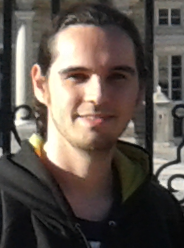
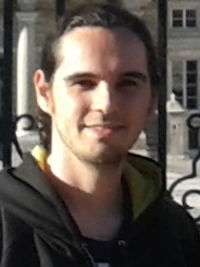
Swapping out jpgs for pngs

diff --git a/_students/abu_reyan_ahmed.md b/_students/abu_reyan_ahmed.md
@@ -1,6 +1,6 @@
 ---
 name: Abu Reyan Ahmed
 role: PhD Student
-photo: headshots/Reyan.jpg
+photo: headshots/Reyan.png
 website: http://cgi.cs.arizona.edu/~abureyanahmed/profile.html
 ---

diff --git a/_students/katy_williams.md b/_students/katy_williams.md
@@ -1,6 +1,6 @@
 ---
 name: Katy Williams
 role: PhD Student
-photo: headshots/kawilliams.jpg
+photo: headshots/kawilliams.png
 website: http://hdc.cs.arizona.edu/people/kawilliams/
 ---

diff --git a/_students/simon_swenson.md b/_students/simon_swenson.md
@@ -1,6 +1,6 @@
 ---
 name: Simon Swenson
 role: PhD Student
-photo: headshots/simon.jpg
+photo: headshots/simon.png
 website: https://www.cs.arizona.edu/person/simon-swenson
 ---

diff --git a/_faculty/stephens_kobourov.md b/_faculty/stephens_kobourov.md
@@ -2,5 +2,5 @@
 name: Stephen Kobourov
 role: Professor
 website: http://www.cs.arizona.edu/~kobourov 
-photo: headshots/skobourov.jpg
+photo: headshots/skobourov.png
 ---

diff --git a/_faculty/kate_isaacs.md b/_faculty/kate_isaacs.md
@@ -2,5 +2,5 @@
 name: Kate Isaacs
 role: Assistant Professor
 website: http://cgi.cs.arizona.edu/~kisaacs
-photo: headshots/kisaacs.jpg
+photo: headshots/kisaacs.png
 ---

diff --git a/_students/kairong_jiang.md b/_students/kairong_jiang.md
@@ -1,6 +1,6 @@
 ---
 name: Kairong Jiang
 role: PhD Student
-photo: headshots/jiangkairong.jpg
+photo: headshots/jiangkairong.png
 website: http://jiangkairong.me/
 ---

diff --git a/_students/mingwei_li.md b/_students/mingwei_li.md
@@ -1,6 +1,6 @@
 ---
 name: Mingwei Li
 role: PhD Student
-photo: headshots/mingwei.jpg
+photo: headshots/mingwei.png
 website: http://hdc.cs.arizona.edu/~mwli/
 ---

diff --git a/_students/sayef_azad_sakin.md b/_students/sayef_azad_sakin.md
@@ -2,5 +2,5 @@
 name: Sayef Azad Sakin
 role: PhD Student
 website: https://sayefsakin.blogspot.com
-photo: headshots/ssakin.jpg
+photo: headshots/ssakin.png
 ---

diff --git a/_faculty/joshua_levine.md b/_faculty/joshua_levine.md
@@ -2,5 +2,5 @@
 name: Josh Levine
 role: Assistant Professor
 website: http://www.cs.arizona.edu/~josh
-photo: headshots/josh.jpg
+photo: headshots/josh.png
 ---

diff --git a/_students/jixian_li.md b/_students/jixian_li.md
@@ -1,6 +1,6 @@
 ---
 name: Jixian Li
 role: PhD Student
-photo: headshots/jixianli.jpg
+photo: headshots/jixianli.png
 website: https://jixianli.github.io/
 ---

diff --git a/_students/sabin_devkota.md b/_students/sabin_devkota.md
@@ -2,5 +2,5 @@
 name: Sabin Devkota
 role: PhD Student
 website: https://devkotasabin.github.io/ 
-photo: headshots/sabin.jpg
+photo: headshots/sabin.png
 ---

diff --git a/_students/rebecca_faust.md b/_students/rebecca_faust.md
@@ -2,5 +2,5 @@
 name: Rebecca Faust
 role: PhD Student
 website: https://rjfaust.github.io 
-photo: headshots/rfaust.jpg
+photo: headshots/rfaust.png
 ---
